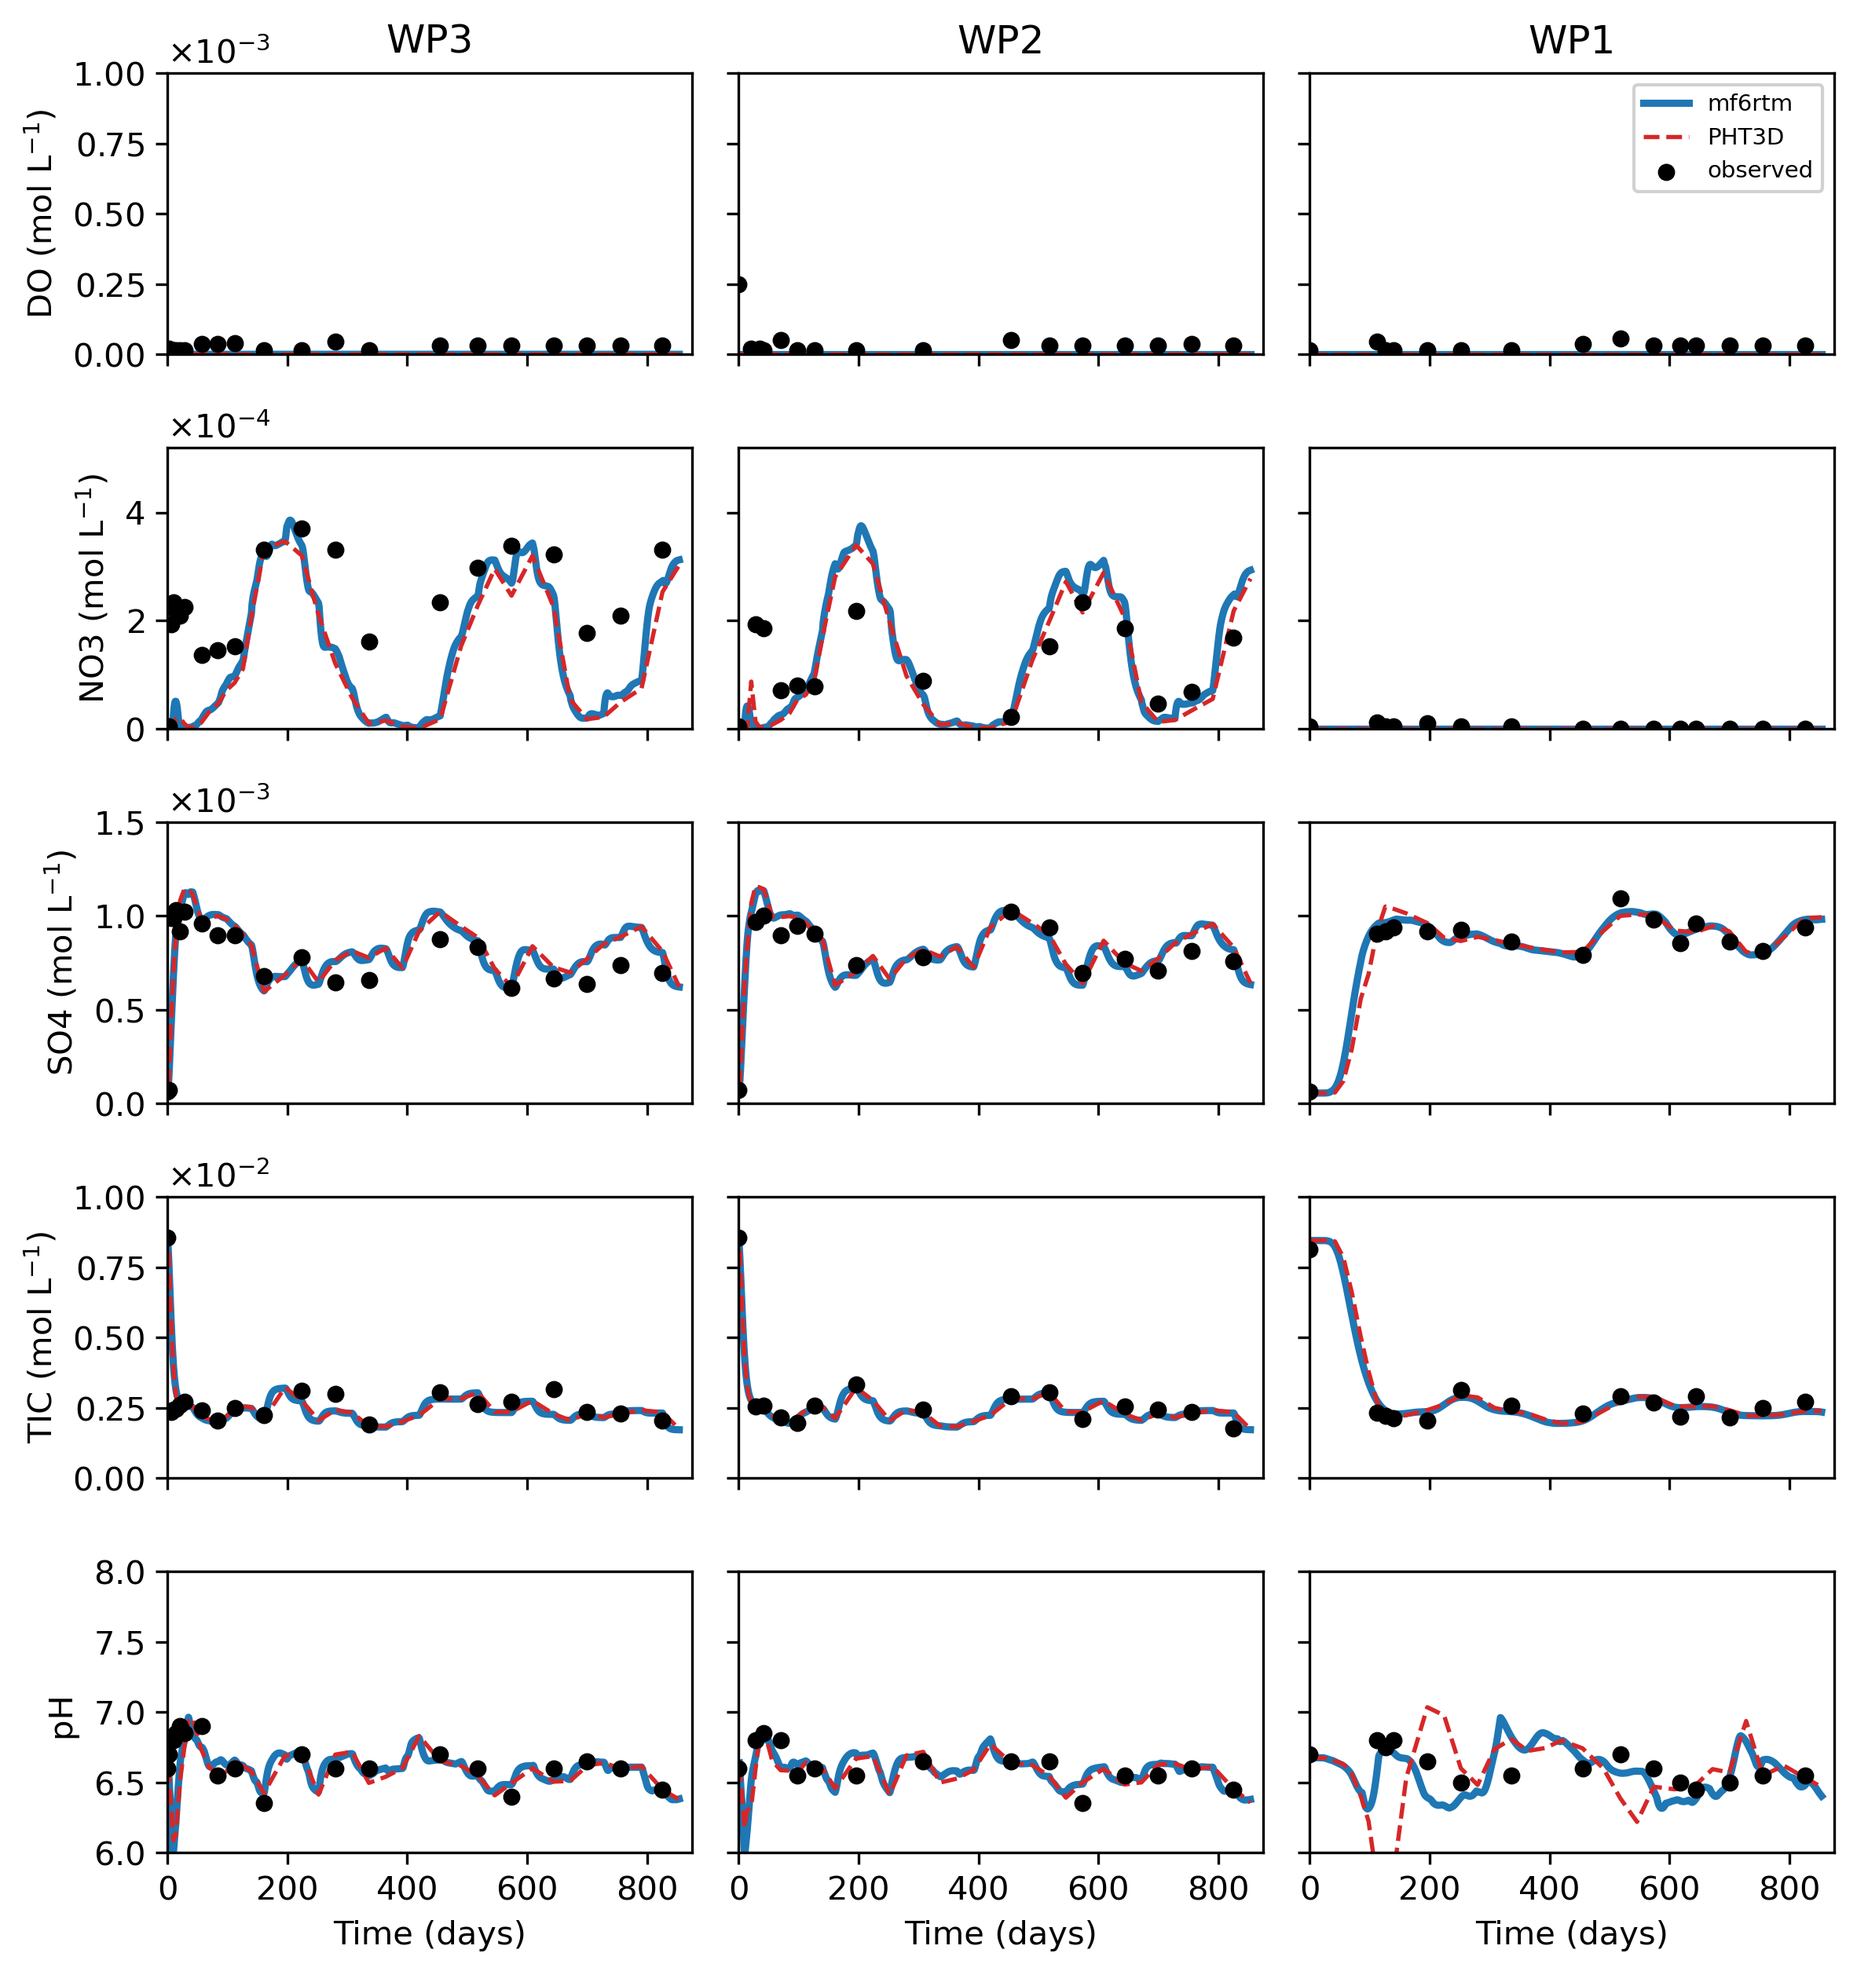
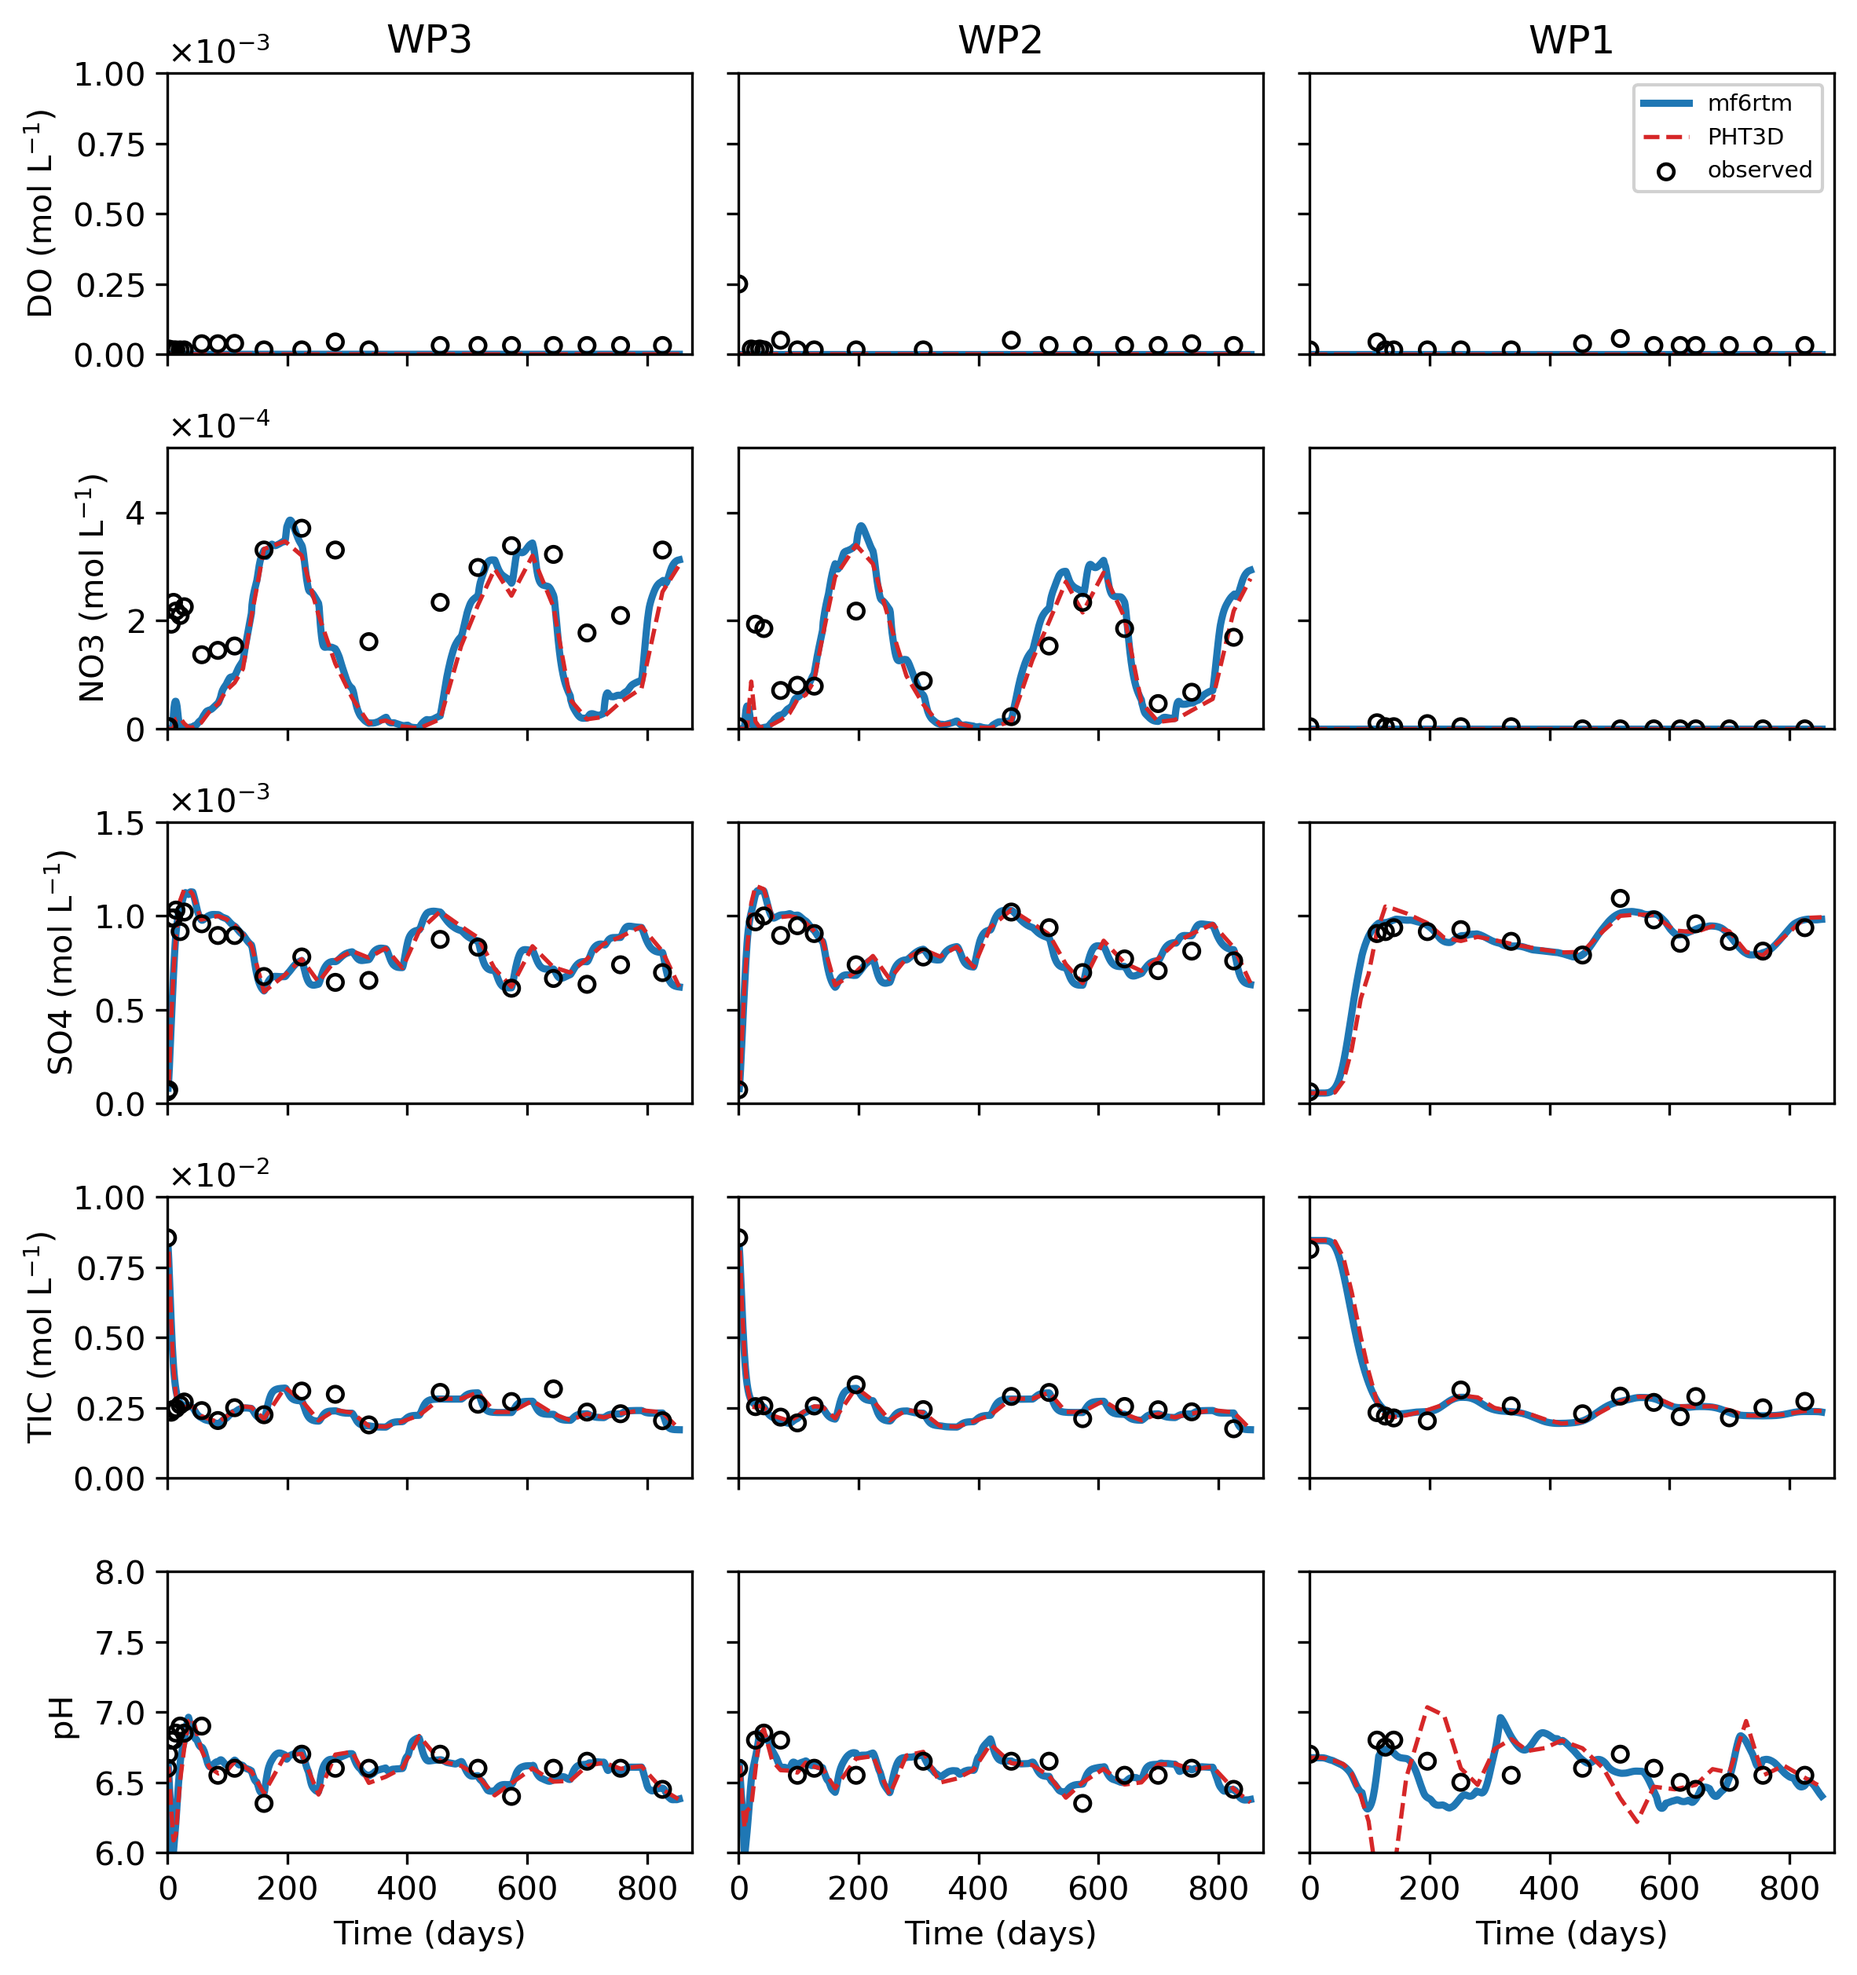
restyle figures and readme

diff --git a/workflow.py b/workflow.py
@@ -3015,10 +3015,10 @@ def load_pht3d_out():
 def plot_comparison(show_obs=True, show_pht3d=True, ws=MF6_REACTIVE_WS, out=None):
     """5x3 panel (rows DO/NO3/SO4/TIC/pH, cols WP3/WP2/WP1) at screen f2.
 
-    mf6rtm is a solid line and observations are filled dots. PHT3D is drawn as open circles when
+    mf6rtm is a solid line and observations are open circles. PHT3D is drawn as open circles when
     it is the only thing compared against mf6rtm, but as a dashed line on the three-way figure,
-    where circles compete with the observation markers -- there mf6rtm is also thickened so the
-    two model curves stay separable.
+    where circles would collide with the observation markers -- there mf6rtm is also thickened so
+    the two model curves stay separable.
     """
     import matplotlib.ticker as mticker
     sel = load_mf6rtm_series(ws)
@@ -3050,11 +3050,8 @@ def plot_comparison(show_obs=True, show_pht3d=True, ws=MF6_REACTIVE_WS, out=None
             if meas is not None:
                 mp = meas[(meas['wp'] == wp) & (meas['f'] == FIG_SCREEN)
                           & (meas['variable'] == var)]
-                if three_way:   # filled, to stay distinct from the dashed PHT3D line
-                    ax.scatter(mp['time'], mp['value'], c='k', s=18, zorder=10, label='observed')
-                else:
-                    ax.scatter(mp['time'], mp['value'], facecolors='none', edgecolors='k',
-                               linewidths=1.1, s=22, zorder=10, label='observed')
+                ax.scatter(mp['time'], mp['value'], facecolors='none', edgecolors='k',
+                           linewidths=1.1, s=22, zorder=10, label='observed')
             ax.yaxis.set_major_formatter(mticker.ScalarFormatter(useMathText=True))
             ax.ticklabel_format(axis='y', style='sci', scilimits=(0, 2))
             if r == 0:

diff --git a/README.md b/README.md
@@ -79,14 +79,14 @@ from `Fe(OH)3` precipitation, which the codes time differently because mf6rtm tr
 elements and lets PHREEQC redistribute valence each step while PHT3D transports the individual
 redox states. Note the pH row is clipped at 6, so that excursion runs off the bottom of the axis.
 
-**mf6rtm** is the solid blue line throughout. On the three-way figure PHT3D is a dashed red line and
-the observations are filled dots; on the two-way figures the compared series is open circles.
-Rows are DO / NO₃ / SO₄ / TIC / pH; columns are WP3 / WP2 / WP1, screen `f2`.
+**mf6rtm** is the solid blue line and **observations** are open circles throughout. **PHT3D** is a
+dashed red line where the observations are also shown, and open circles where it is compared
+against mf6rtm alone. Rows are DO / NO₃ / SO₄ / TIC / pH; columns are WP3 / WP2 / WP1, screen `f2`.
 
 ### mf6rtm vs observations
 ![mf6rtm vs observed](output/dizon_mf6rtm_vs_obs.png)
 
-### mf6rtm vs the PHT3D twin
+### mf6rtm vs PHT3D
 ![mf6rtm vs PHT3D](output/dizon_mf6rtm_vs_pht3d.png)
 
 ### mf6rtm vs observations vs PHT3D
@@ -110,7 +110,7 @@ main(
 )
 ```
 
-The PHT3D twin is derived from the mf6rtm run in `model/reactive`, so run `run_base_struct`
+The PHT3D model build is derived from the mf6rtm run in `model/reactive`, so run `run_base_struct`
 first. `build_pht3d` gates the MODFLOW-2005 flow twin against the MF6 heads before building
 transport on its flow-transport link file.
 
